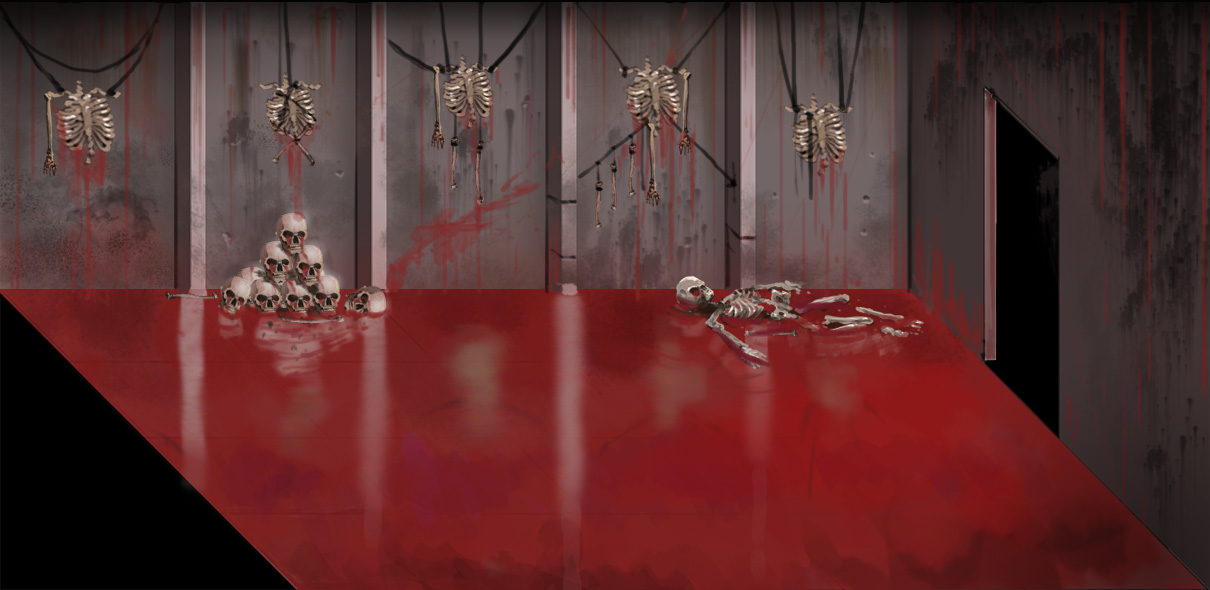
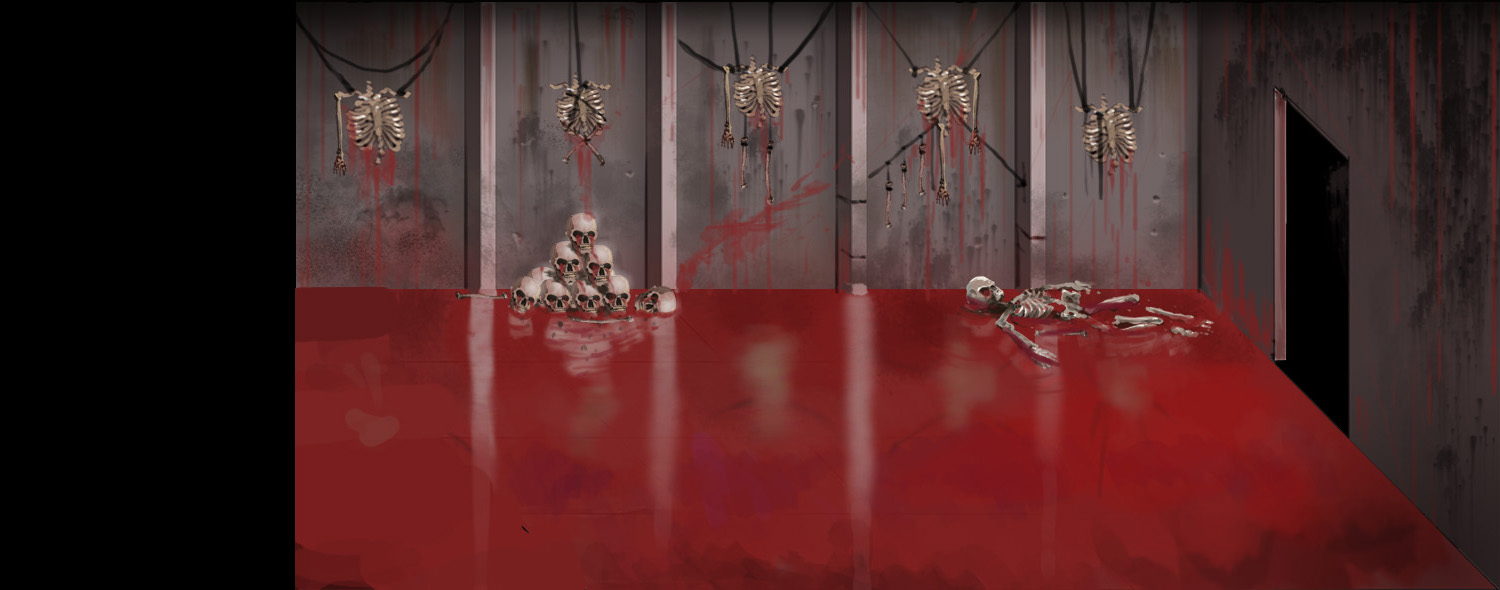
gfdgf

diff --git a/scripts/Renderer.js b/scripts/Renderer.js
@@ -34,8 +34,8 @@ define(["Compose", "Vector2", "Layer", "Room", "Player", "Loader", "Logger"], fu
 
 		getRoomEndX: function(x) {
 			var roomX = this.rooms[0].width;
-			for (var i = 0; i < this.rooms.length; ++i) {
-				if (this.rooms[i].getLoc().x < x) roomX = this.rooms[i].getLoc().x + this.rooms[i].width;
+			for (var i = 0; i < this.rooms.length-1; ++i) {
+				if (this.rooms[i].getLoc().x < x) roomX = this.rooms[i].getLoc().x + this.rooms[i+1].width;
 			}
 			return roomX;
 		},

diff --git a/scripts/Game.js b/scripts/Game.js
@@ -131,11 +131,13 @@ define(["Compose", "Logger", "GameArea", "Vector2", "Player", "Renderer", "Trigg
 
 			// player dead
 				if (this.player.isDead() && this.resetTimer == 0) {
+					Logger.log("huh");
 					this.resetTimer = 2000;
 				}
 
 				// fade to black
 				if (this.resetTimer > 0) {
+					Logger.log(this.resetTimer);
 					var ctx = this.canvas.getContext("2d");
 					ctx.fillStyle = "#000000";
 					ctx.fillRect(0, 0, this.canvas.width, this.canvas.height);

diff --git a/scripts/TrapdoorRoom.js b/scripts/TrapdoorRoom.js
@@ -15,8 +15,8 @@ define(["Compose", "Vector2", "Logger", "Entity", "Animation"], function(Compose
 		for (var x = 0; x < 5; ++x) {
 			for (var y = 0; y < 5; ++y) {
 				this.trapdoorJson.id = id + "-trapdoor-" + x + y;
-				Logger.log(this.trapdoorJson.id);
 				this.trapdoorJson.loc = [this.getLoc().x + x * pitWidth + y * 60, this.getLoc().y + y * 60];
+				Logger.log(this.trapdoorJson.loc);
 				this.game.createEntity(this.trapdoorJson);
 			}
 		}

diff --git a/scripts/Room.js b/scripts/Room.js
@@ -48,6 +48,8 @@ define(["Compose", "Vector2", "Logger"], function(Compose, Vector2, Logger) {
 
 			// compute the width of the room - this is the width of the image subtracted by the room height
 			this.width = this.img.width - (this.height / Math.tan(Math.PI/4));
+			Logger.log("width: " + this.width);
+			Logger.log("height: " + this.height);
 		},
 
 		draw: function(ctx) {

diff --git a/scripts/Player.js b/scripts/Player.js
@@ -74,7 +74,6 @@ define(["Compose", "Vector2", "Logger", "Entity", "Animation"], function(Compose
 		draw: function(ctx) {
 			ctx.save();
 			ctx.fillStyle = "#00FF00";
-			//Logger.log(this.loc);
 			ctx.translate(this.loc.x, this.loc.y);
 			ctx.fillRect(-2, -2, 4, 4);
 			this.animation.draw(ctx, this.z);

diff --git a/scripts/Trapdoor.js b/scripts/Trapdoor.js
@@ -87,7 +87,7 @@ define(["Compose", "Vector2", "Logger", "Entity", "Animation"], function(Compose
 					var b = new Vector2(this.path[0][0], this.path[0][1]);
 				}
 
-				ctx.strokeStyle="#FF0000"
+				ctx.strokeStyle="#FF0000";
 				ctx.beginPath();
 				ctx.moveTo(a.x,a.y);
 				ctx.lineTo(b.x,b.y);
